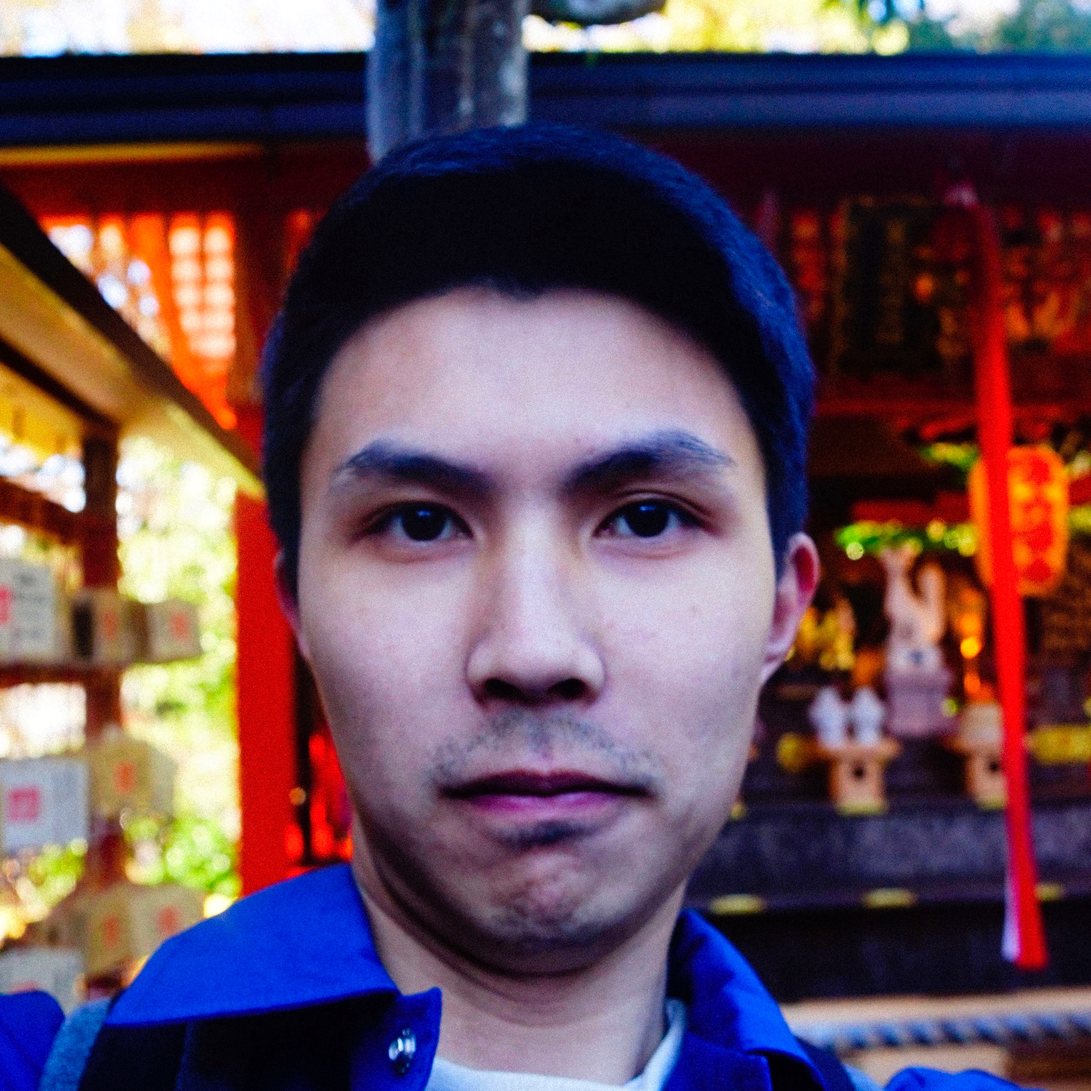
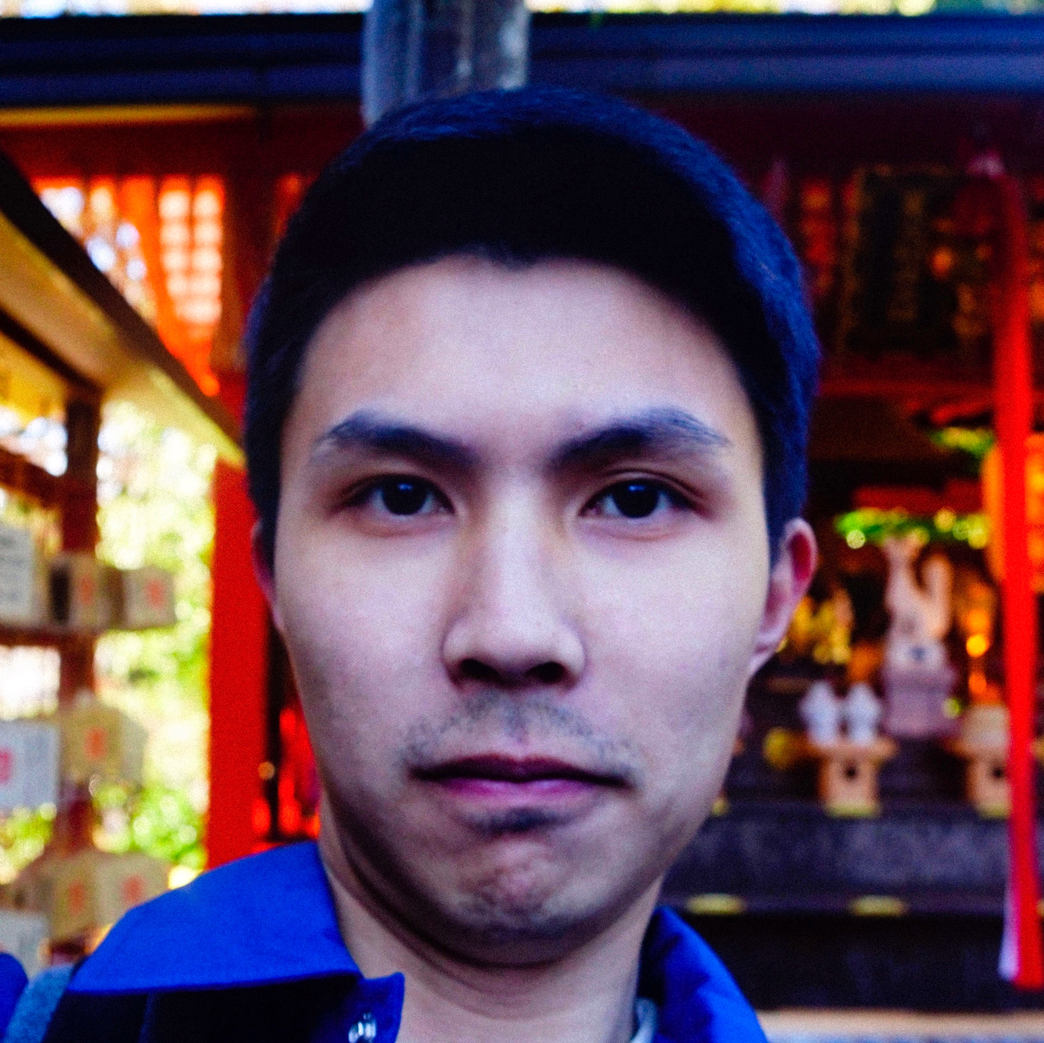
[master] update 02/25/2019

diff --git a/index.html b/index.html
@@ -38,7 +38,7 @@ gtag('config', 'UA-128167050-1');
                 </div>
                 <h1><b>Hang Gao</b></h1>
 
-                <p> 
+                <p>
                 <a href="https://github.com/cullengao">
                     <font color="#222">
                         <i class="fa fa-github fa-2x" class="icon"></i>
@@ -49,9 +49,9 @@ gtag('config', 'UA-128167050-1');
                         <i class="ai ai-google-scholar ai-2x" class="icon"></i>
                     </font>
                 </a> &nbsp &nbsp
-                <!--  <span class="cv_right">
-                    <a href="files/Ji_Lin_CV.pdf"><font size="4em" color="#222"><b>[CV]</b></font></a>
-                    </span> -->
+                <span class="cv_right">
+                    <a href="https://drive.google.com/open?id=1VF43kYlCXT1y146gs8JNQcL6TWx2gnUf"><font size="4em" color="#222"><b>[CV]</b></font></a>
+	        </span>
                 </p>
                 <br>
 
@@ -75,83 +75,108 @@ emailScramble = new scrambledString(document.getElementById('email'),
                 <section  id="about">
                     <h2>About</h2>
                     <p>
-                    I am a master student in Computer Science at <a href="https://www.columbia.edu/">Columbia University</a>, currently collaborating with Prof. <a href="https://people.eecs.berkeley.edu/~trevor://people.eecs.berkeley.edu/~trevor/">Trevor Darrell</a> at <a href="https://bair.berkeley.edu/">Berkeley Artificial Intelligence Research (BAIR)</a> as a research intern. Earlier back in Columbia, I worked at <a href="http://www.ee.columbia.edu/ln/dvmm/">Digital Video Multimedia Lab (DVMM)</a>, advised by Prof. <a href="http://www.ee.columbia.edu/~sfchang/">Shih-Fu Chang</a>.
+                    I am an incoming PhD student at UC Berkeley, currently working with
+                    <a href="https://people.eecs.berkeley.edu/~trevor" style="white-space: nowrap">
+                        Trevor Darrell</a>. I obtained my master degree from
+                    Columbia where I worked with
+                    <a href="http://www.ee.columbia.edu/~sfchang/" style="white-space: nowrap">
+                        Shih-Fu Chang</a>. During my undergraduate study in
+                    Jiao Tong University, I collaborated closely with
+                    <a href="http://http://www.cs.cmu.edu/~anind/" style="white-space: nowrap">
+                        Anind Dey</a>.
                     </p>
-                    <!--<p>-->
-                    <!--I graduated from <a href="http://en.sjtu.edu.cn/">Shanghai Jiao Tong University</a> with B.E. in Information Security. During my undergrad period, I worked with <a href="http://www.cs.cmu.edu/~anind/">Prof. Anind Dey</a> at <a href="http://ubicomplab.org/">Ubiquitous Computing Lab (UbicompLab)</a> and <a href="http://english.seiee.sjtu.edu.cn/english/detail/841_669.htm">Prof. Minglu Li</a> at <a href="http://wanglab.sjtu.edu.cn/en/Default.aspx">Wireless Networking and Artificial Intelligence Lab</a>.-->
-                    <!--</p>-->
+                    My research focuses on augmenting existing intelligent systems with
+                    the <i>common sense</i> - the sense of world composition
+                    that goes beyond of visual semantics, to relations,
+                    geometries and physics.
                     <p>
-                    I am most interested in deep generative models and their
-                    application - whether it be in their development, inference, or
-                    more generally their foundations for computational and statistical
-                    analysis.
-                    </p>
-                    <p>
-                    <i>I will apply for PhD programs in CV starting from 2019 Fall.</i>
-                    Wish me luck.
+
                     </p>
 
                 </section>
 
                 <!-- Education -->
-                <section  id="education">
-                    <h2>Timeline</h2>
+                <!-- <section  id="education"> -->
+                    <!-- <h2>Timeline</h2> -->
 
-                    <div class="media">
-                        <span class="pull-left"><img src="assets/berkeley.png" width="96px" height="96px"/></span>
-                        <div class="media-body">
-                            <p>
-                            <span style="font-weight: bold"> May 2018 - Present</span>
-                            </p>
-                            Department of Electrical Engineering and Computer Science,<br>
-                            <em>UC Berkeley</em>
-                            <p>Research Intern with Prof. Trevor Darrell</p>
-                        </div>  
-                    </div>
-                    <div class="media">
-                        <span class="pull-left"><img src="assets/columbia.png" width="96px" height="96px"/></span>
-                        <div class="media-body">
-                            <p><span style="font-weight: bold">Sep 2017 - Dec 2018
-                                (Expected)</span>
-                            </p>
-                            Fu Foundation School of Engineering, <br>
-                            <em>Columbia University</em>
-                            <p>Master of Science in Computer Science</p>
-                        </div>
-                    </div>
-                    <div class="media">
-                        <span class="pull-left"><img src="assets/sjtu.png" width="96px" height="96px"/></span>
-                        <div class="media-body">
-                            <p><span style="font-weight: bold">Sep 2013 - Jul
-                                2017</span></p>
-                            Department of Computer Science and Engineering,<br>
-                            <i>Shanghai Jiao Tong University</i>
-                            <p>Bachelor of Engineering in Information Security</p>
-                        </div>  
-                    </div>
-                    <div class="media">
-                        <span class="pull-left"><img src="assets/cmu.png" width="96px" height="96px"/></span>
-                        <div class="media-body">
-                            <p><span style="font-weight: bold">Jul 2016 - Sep
-                                2016</span></p>
-                            Human-Computer Interaction Institute,<br>
-                            <i>Carnegie Mellon University</i>
-                            <p>Research Intern with Prof. Anind Dey</p>
-                        </div>  
-                    </div>
-                </section>
+                    <!-- <div class="media"> -->
+                        <!-- <span class="pull-left"><img src="assets/berkeley.png" width="96px" height="96px"/></span> -->
+                        <!-- <div class="media-body"> -->
+                            <!-- <p> -->
+                            <!-- <span style="font-weight: bold"> May 2018 - Present</span> -->
+                            <!-- </p> -->
+                            <!-- Department of Electrical Engineering and Computer Science,<br> -->
+                            <!-- <em>UC Berkeley</em> -->
+                            <!-- <p>Research Intern with Prof. Trevor Darrell</p> -->
+                        <!-- </div> -->
+                    <!-- </div> -->
+                    <!-- <div class="media"> -->
+                        <!-- <span class="pull-left"><img src="assets/columbia.png" width="96px" height="96px"/></span> -->
+                        <!-- <div class="media-body"> -->
+                            <!-- <p><span style="font-weight: bold">Sep 2017 - Dec 2018 -->
+                                <!-- (Expected)</span> -->
+                            <!-- </p> -->
+                            <!-- Fu Foundation School of Engineering, <br> -->
+                            <!-- <em>Columbia University</em> -->
+                            <!-- <p>Master of Science in Computer Science</p> -->
+                        <!-- </div> -->
+                    <!-- </div> -->
+                    <!-- <div class="media"> -->
+                        <!-- <span class="pull-left"><img src="assets/sjtu.png" width="96px" height="96px"/></span> -->
+                        <!-- <div class="media-body"> -->
+                            <!-- <p><span style="font-weight: bold">Sep 2013 - Jul -->
+                                <!-- 2017</span></p> -->
+                            <!-- Department of Computer Science and Engineering,<br> -->
+                            <!-- <i>Shanghai Jiao Tong University</i> -->
+                            <!-- <p>Bachelor of Engineering in Information Security</p> -->
+                        <!-- </div> -->
+                    <!-- </div> -->
+                    <!-- <div class="media"> -->
+                        <!-- <span class="pull-left"><img src="assets/cmu.png" width="96px" height="96px"/></span> -->
+                        <!-- <div class="media-body"> -->
+                            <!-- <p><span style="font-weight: bold">Jul 2016 - Sep -->
+                                <!-- 2016</span></p> -->
+                            <!-- Human-Computer Interaction Institute,<br> -->
+                            <!-- <i>Carnegie Mellon University</i> -->
+                            <!-- <p>Research Intern with Prof. Anind Dey</p> -->
+                        <!-- </div> -->
+                    <!-- </div> -->
+                <!-- </section> -->
                 <section id='publications'>
                     <h2>Publications</h2>
 
-                    <p><b>Low-shot Learning via Covariance-Preserving Adversarial Augmentation Networks</b> <br>
+                    <b><a href="https://arxiv.org/pdf/1812.00452.pdf">Disentangling Propagation and Generation for Video Prediction</a></b><br>
+                    <u>Hang Gao</u><sup>*</sup>, Huazhe Xu<sup>*</sup>, Qi-Zhi Cai, Ruth Wang, Fisher Yu, Trevor Darrell <br>
+                    <div class="paper" id="gao2018disentangling">
+                        Preprint
+                        / <a href="https://arxiv.org/abs/1812.00452">arxiv</a>
+                        / <a href="javascript:toggleblock('gao2018disentangling_abs')">abstract</a>
+                        / <a href="javascript:togglebib('gao2018disentangling')">bib</a>
+                        <p align="justify">
+                        <i id="gao2018disentangling_abs" style="display: none;">
+                            <br>
+Learning to predict future video frames is a challenging task. Recent approaches for natural scenes directly predict pixels via inferring appearance flow and using flow-guided warping. Such models excel when motion estimates are accurate, but the motion may be ambiguous or erroneous in many real scenes. When scene motion exposes new regions of the scene, motion-based prediction yields poor results. However, learning to predict novel pixels directly can also require a prohibitive amount of training. In this work, we present a confidence-aware spatial-temporal context encoder for video prediction called Flow-Grounded Video Prediction (FGVP), in which motion propagation and novel pixel generation are first disentangled and then fused according to computed flow uncertainty map. For regions where motion-based prediction shows low-confidence, our model uses a conditional context encoder to hallucinate appropriate content. We test our methods on the standard CalTech Pedestrian dataset and the more challenging KITTI Flow dataset of larger motions and occlusions. Our methods produce both sharp and natural predictions compared to previous works, achieving the state-of-the-art performance on both datasets.
+                        </i>
+                        </p>
+                        <pre xml:space="preserve" style="display: none;">
+@inproceedings{gao2018disentangling,
+    title={Disentangling Propagation and Generation for Video Prediction},
+    author={Gao, Hang and Xu, Huazhe and Cai, Qi-Zhi
+    and Wang, Ruth and Yu, Fisher and Darrell, Trevor},
+    booktitle={arXiv preprint arXiv:1812.00452.},
+    year={2018},
+}
+                        </pre>
+                    </div>
+
+                    <b><a href="https://arxiv.org/pdf/1810.11730.pdf">Low-shot Learning via Covariance-Preserving Adversarial Augmentation Networks</a></b><br>
                     <u>Hang Gao</u>, Zheng Shou, Alireza Zareian, Hanwang Zhang, Shih-Fu Chang <br>
-                    NIPS 2018 <br>
                     <div class="paper" id="gao2018low">
-                        [ <a href="https://arxiv.org/abs/1810.11730">arxiv</a> ]
-                        [ <a href="https://arxiv.org/pdf/1810.11730.pdf">pdf</a> ]
-                        [ <a href="javascript:toggleblock('gao2018low_abs')">abstract</a> ] 
-                        [ <a href="javascript:togglebib('gao2018low')">bib</a> ]
-                        [ <a href="assets/cpaan_nips18_supp.pdf">supp</a> ] 
+                        NeurIPS 2018
+                        / <a href="https://arxiv.org/abs/1810.11730">arxiv</a>
+                        / <a href="javascript:toggleblock('gao2018low_abs')">abstract</a>
+                        / <a href="javascript:togglebib('gao2018low')">bib</a>
+                        / <a href="assets/cpaan_nips18_supp.pdf">supp</a>
                         <p align="justify">
                         <i id="gao2018low_abs" style="display: none;">
                             <br>
@@ -159,25 +184,23 @@ emailScramble = new scrambledString(document.getElementById('email'),
                         </i>
                         </p>
                         <pre xml:space="preserve" style="display: none;">
-@misc{1810.11730,
+@inproceedings{gao2018low,
     title={Low-shot Learning via Covariance-Preserving Adversarial Augmentation Networks},
-    author={Hang Gao and Zheng Shou and Alireza Zareian and Hanwang Zhang and Shih-Fu Chang},
+    author={Gao, Hang and Shou, Zheng and Zareian, Alireza
+    and Zhang, Hanwang and Chang, Shih-Fu},
+    booktitle={Advances in Neural Information Processing Systems (NIPS)},
     year={2018},
-    eprint={arXiv:1810.11730}
-}                        
+}
                         </pre>
                     </div>
-                    </p>
-                    <p><b>AutoLoc: Weakly-supervised Temporal Action Localization in Untrimmed Videos</b> <br>
+                    <b><a href="https://arxiv.org/pdf/1807.08333.pdf">AutoLoc: Weakly-supervised Temporal Action Localization in Untrimmed Videos</a></b><br>
                     Zheng Shou, <u>Hang Gao</u>, Lei Zhang, Kazuyuki Miyazawa, Shih-Fu Chang <br>
-                    ECCV 2018 <br>
                     <div class="paper" id="shou2018autoloc">
-                        [ <a href="https://arxiv.org/abs/1807.08333">arxiv</a> ]
-                        [ <a href="https://arxiv.org/pdf/1807.08333.pdf">pdf</a> ]
-                        [ <a href="javascript:toggleblock('shou2018autoloc_abs')">abstract</a> ] 
-                        [ <a href="javascript:togglebib('shou2018autoloc')">bib</a> ] 
-                        [ <a href="https://docs.google.com/presentation/d/1RewnUvHZx7e_mlq1q5naImpT6xxxz9Jc_R2LqbzMVgU/edit#slide=id.p">poster</a> ]
-                        [ <a href="https://github.com/zhengshou/AutoLoc/">code</a> ]
+                        ECCV 2018
+                        / <a href="https://arxiv.org/abs/1807.08333">arxiv</a>
+                        / <a href="javascript:toggleblock('shou2018autoloc_abs')">abstract</a>
+                        / <a href="javascript:togglebib('shou2018autoloc')">bib</a>
+                        / <a href="https://github.com/zhengshou/AutoLoc/">code</a>
                         <p align="justify">
                         <i id="shou2018autoloc_abs" style="display: none;">
                             <br>
@@ -186,25 +209,22 @@ emailScramble = new scrambledString(document.getElementById('email'),
                         </p>
                         <pre xml:space="preserve" style="display: none;">
 @inproceedings{shou2018autoloc,
-    title={AutoLoc: Weakly-supervised Temporal Action 
+    title={AutoLoc: Weakly-supervised Temporal Action
     Localization in Untrimmed Videos},
-    author={Shou, Zheng and Gao, Hang and Zhang, Lei 
+    author={Shou, Zheng and Gao, Hang and Zhang, Lei
     and Miyazawa, Kazuyuki and Chang, Shih-Fu},
     booktitle = {ECCV},
     year={2018}
 }
                         </pre>
                     </div>
-                    </p>
-                    <p>
-                    <b>ER: Early Recognition of Inattentive Driving Events Leveraging Audio Devices on Smartphones</b> <br>
+                    <b><a href="http://www.winlab.rutgers.edu/~yychen/papers/ER%20Early%20Recognition%20of%20Inattentive%20Driving%20Leveraging%20Audio%20Devices%20on%20Smartphones.pdf">ER: Early Recognition of Inattentive Driving Events Leveraging Audio Devices on Smartphones</a></b> <br>
                     Xiangyu Xu, <u>Hang Gao</u>, Jiadi Yu, Yingying Chen, Yanmin Zhu, Guangtao Xue, Minglu Li <br>
-                    INFOCOM 2017 <br>
                     <div class="paper" id="xu2017er">
-                        [ <a href="https://ieeexplore.ieee.org/document/8057022">IEEE</a> ]
-                        [ <a href="http://www.winlab.rutgers.edu/~yychen/papers/ER%20Early%20Recognition%20of%20Inattentive%20Driving%20Leveraging%20Audio%20Devices%20on%20Smartphones.pdf">pdf</a> ]
-                        [ <a href="javascript:toggleblock('xu2017er_abs')">abstract</a> ] 
-                        [ <a href="javascript:togglebib('xu2017er')">bib</a> ] 
+                        INFOCOM 2017
+                        / <a href="https://ieeexplore.ieee.org/document/8057022">IEEE</a>
+                        / <a href="javascript:toggleblock('xu2017er_abs')">abstract</a>
+                        / <a href="javascript:togglebib('xu2017er')">bib</a>
                         <p align="justify">
                         <i id="xu2017er_abs" style="display: none;">
                             <br>
@@ -213,11 +233,11 @@ emailScramble = new scrambledString(document.getElementById('email'),
                         </p>
                         <pre xml:space="preserve" style="display: none;">
 @inproceedings{xu2017er,
-    title={ER: Early recognition of inattentive driving 
+    title={ER: Early recognition of inattentive driving
     leveraging audio devices on smartphones},
-    author={Xu, Xiangyu and Gao, Hang and Yu, Jiadi and 
+    author={Xu, Xiangyu and Gao, Hang and Yu, Jiadi and
     Chen, Yingying and Zhu, Yanmin and Xue, Guangtao and Li, Minglu},
-    booktitle={INFOCOM 2017-IEEE Conference on Computer 
+    booktitle={INFOCOM 2017-IEEE Conference on Computer
     Communications, IEEE},
     pages={1--9},
     year={2017},
@@ -225,13 +245,12 @@ emailScramble = new scrambledString(document.getElementById('email'),
 }
                         </pre>
                     </div>
-                    </p>
                 </section>
 
                 <section id="footer">
-                    <div class="container">
+                    <div class="container" style="font-size: small">
                         <ul class="copyright">
-                            <li>&copy; Hang Gao 2018</li>
+                            <li>&copy; Hang Gao <small id="yr"></small></li>
                             <li>Latest update: <small id="lu"></small></li>
                             <li>Courtesy:
                                 <a href="http://linji.me/">L</a>
@@ -243,8 +262,10 @@ emailScramble = new scrambledString(document.getElementById('email'),
                     </div>
                 </section>
                 <script>
+                var yr = document.lastModified;
                 var lu = document.lastModified;
-                document.getElementById("lu").innerHTML = lu.substr(0, 10);
+                document.getElementById("yr").innerHTML = yr.substr(6, 4);
+                document.getElementById("lu").innerHTML = lu.substr(0, 3) + lu.substr(6, 4);
                 </script>
                 <script src="js/fixscale.js"></script>
         </div>

diff --git a/css/special.css b/css/special.css
@@ -3,14 +3,15 @@
 .cv_right {margin-left: 52px; position: absolute;}
 
 .image.avatar {
-    border-radius: 100%;
+    border-radius: 0%;
     overflow: hidden;
 }
 
 .image.avatar img {
-    border-radius: 100%;
+    border-radius: 0%;
     display: block;
-    width: 70%;
+    width: 80%;
+    border:2px solid black;
 }
 
 .icon i {
@@ -26,34 +27,35 @@
     }
 }
 
+
 h1 {
     font-family: "lucida grande", "lucida sans unicode", lucida, "Helvetica Neue", Helvetica, Arial, sans-serif;
     color: #111
 }
 
 body {
-    background-color: #d4d4d4;
+    background-color: #e6e2dd;
     padding:50px;
     font-size: 14px/1.5;
     font-family: "lucida grande", "lucida sans unicode", lucida, "Helvetica Neue", Helvetica, Arial, sans-serif;
-    color:#4f4f4f;
+    color: #1b120f;
     font-weight:400;
 }
 
 a {
-    color:#008c9d;
+    color:#8f1d14;
     text-decoration:none;
 }
 
 a:hover {
-    color:#016570;
+    color: #f89d13;
 }
 
 /* Footer */
 
 #footer {
     border-top: 0;
-    color: #828080;
+    color: #b28d87;
     overflow: hidden;
     padding: 2em 0 1em 0;
 }
@@ -65,7 +67,7 @@ a:hover {
 }
 
 #footer .copyright li {
-    border-left: solid 1px #828080;
+    border-left: solid 1px #b28d87;
     display: inline-block;
     font-size: 0.8em;
     margin-left: 1em;
@@ -82,5 +84,5 @@ a:hover {
     color: inherit;
 }
 #footer .copyright li a:hover {
-    color: #016570
+    color: #f89d13
 }
